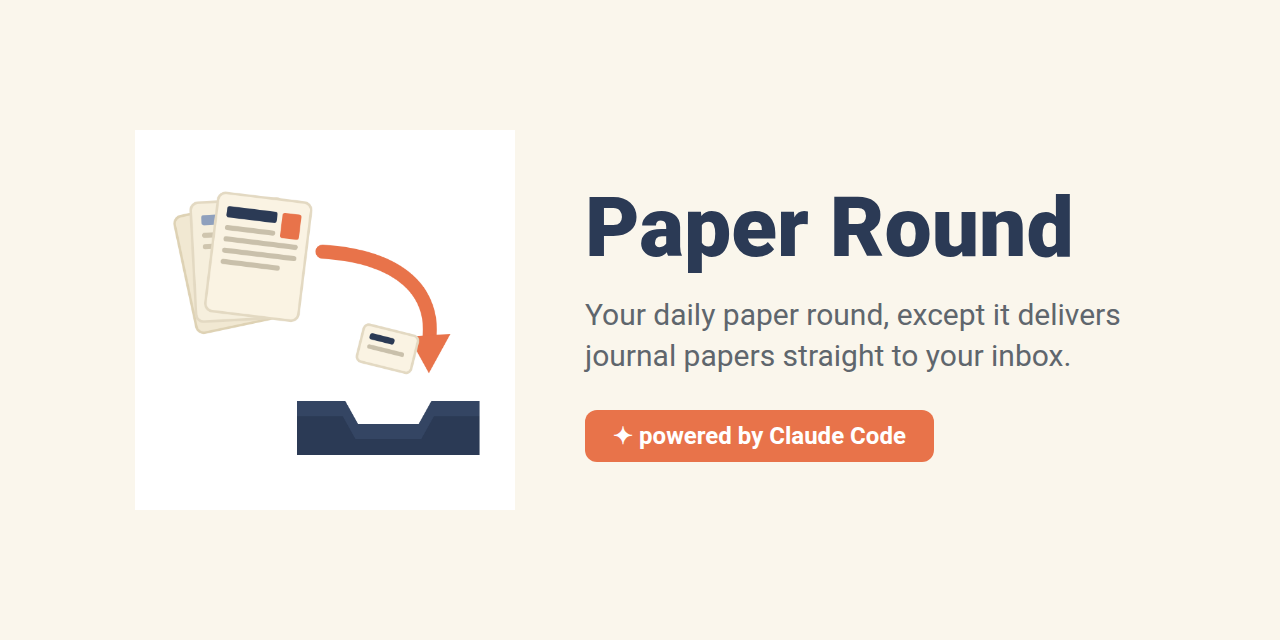
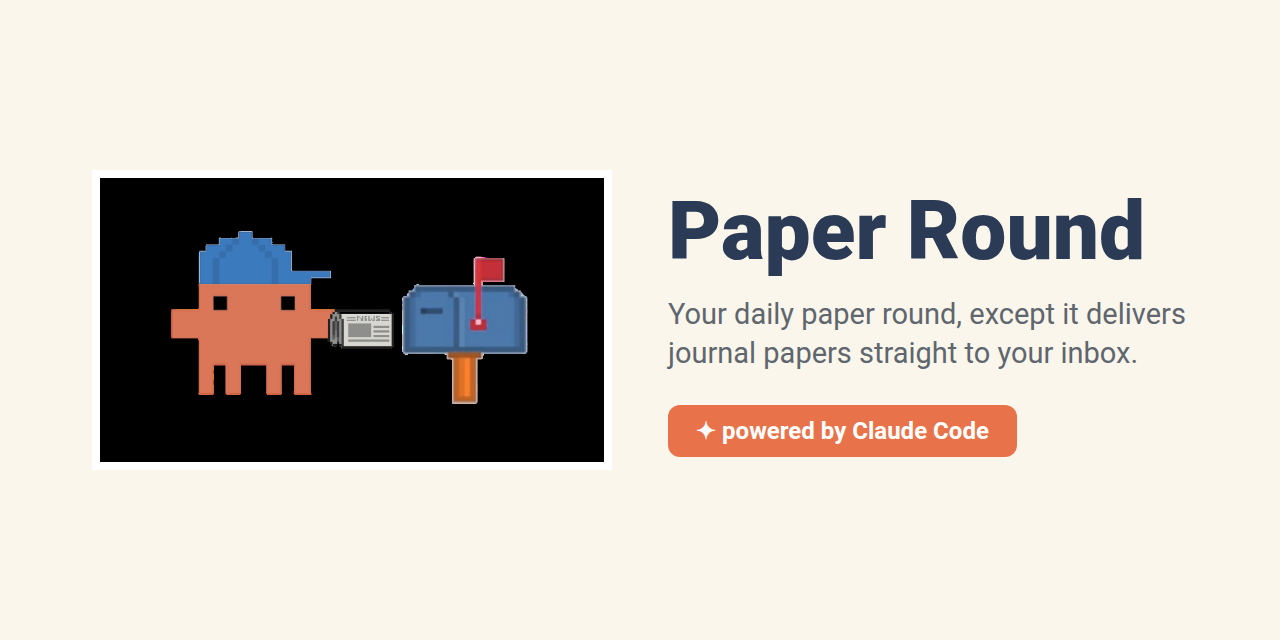
Clawd paperboy header, pipeline diagram in How it works, readable README pass with inline links

Changed region(s): [[0.0625, 0.2812, 0.9375, 0.7188]]

diff --git a/README.md b/README.md
@@ -1,5 +1,5 @@
 <div align="center">
-<img src="assets/paper-round-logo.png" alt="Paper Round logo" width="200">
+<img src="assets/clawd-delivery.png" alt="Clawd delivering the paper round" width="360">
 <h1>Paper Round</h1>
 <p>
 <a href="https://claude.com/product/claude-code"><img src="https://img.shields.io/badge/powered_by-Claude_Code-D97757?logo=claude&logoColor=white" alt="powered by Claude Code"></a>
@@ -11,22 +11,22 @@
 <p><em>Your daily paper round, except it delivers journal papers straight to your inbox.</em></p>
 </div>
 
-Every morning a scheduled Claude agent reads the feeds of the journals you
-follow, scores each new paper against your written research scope, emails
-you the relevant ones, and files them into Zotero with full metadata and
-open-access PDF links. Adapted from the workflow I built for my own PhD
-([Lainey Ward](https://github.com/LaineyLouiseWard)).
+Every morning, a scheduled Claude agent reads the feeds of the journals
+*you* follow, scores each new paper against *your* written research scope,
+**emails you the relevant ones**, and files them into **Zotero** with full
+metadata and open-access PDF links.
 
-No server, no GitHub Actions, no LLM API key: a claude.ai Pro/Max
-subscription is the engine. And unlike arXiv recommenders, it covers the
-peer-reviewed journals of your field across publishers.
+**No server. No GitHub Actions. No LLM API key.** A claude.ai Pro/Max
+subscription is the engine. Adapted from the workflow I built for my own
+PhD ([Lainey Ward](https://github.com/LaineyLouiseWard)).
 
 ![Example daily digest](assets/digest.png)
 
-## 🚀 Quick start
+## 🚀 Start here
 
-The fastest path: click **Use this template**, open your new repo in
-Claude Code, and paste this one prompt. Claude does the setup with you:
+**Fastest path (recommended):** click **[Use this template](https://github.com/LaineyLouiseWard/paper-round/generate)**,
+open your new repo in Claude Code, and paste this one prompt. *Claude
+does the setup with you, conversationally:*
 
 ```text
 Set up Paper Round (this repo) for me.
@@ -50,99 +50,98 @@ Set up Paper Round (this repo) for me.
    confirm each before moving on.
 ```
 
-Or do it by hand:
+<details>
+<summary><b>Prefer to set up by hand?</b> The same six steps, manually</summary>
 
 1. Click **Use this template** to create your own repo (private is fine)
 2. Edit `source_list.md` (your journals) and `config.yaml` (your settings)
-3. Draft your scope files: see [Writing your scope and rules](#%EF%B8%8F-writing-your-scope-and-rules)
-4. `cp .env.example .env` and fill in [the keys you use](#-keys)
+3. Draft your scope files, see [Writing your scope and rules](#%EF%B8%8F-writing-your-scope-and-rules)
+4. `cp .env.example .env` and add your keys: [resend.com](https://resend.com) (required), [zotero.org/settings/keys](https://www.zotero.org/settings/keys) and [openalex.org](https://openalex.org) (optional)
 5. `pip install -r requirements.txt && python screen.py --dry-run` (Python 3.10+)
 6. Set up the [cloud routine](#%EF%B8%8F-schedule-the-cloud-routine) and fire a test run
 
+</details>
+
 ## ⚙️ How it works
 
-![How Paper Round works](assets/how-it-works.png)
+![How Paper Round works](assets/pipeline.png)
 
-Deterministic Python does the data work: fetching feeds (with Crossref
-and OpenAlex fallbacks for publishers that block RSS), dedup by title and
-DOI, logging to a committed CSV, and filing into Zotero with Crossref
-metadata and Unpaywall PDF links. Claude does exactly one thing: judge
-each new paper against `research_scope.md` and `relevance_rules.md`.
-
-The routine prompt opens with integrity rules that pin every claimed
-paper to the fetched data. They exist because a screening agent whose
-fetch step fails will invent plausible papers rather than admit failure;
-the first live run of this pipeline produced seven fabricated papers with
-DOIs that resolved to 404 pages. Under the rules, "0 new papers" is an
-explicitly successful outcome and any failure is quoted verbatim in the
-digest. Spot-check a DOI from your digest now and then anyway.
+- **Python does the data work**: fetching feeds (with Crossref and
+  OpenAlex fallbacks for publishers that block RSS), dedup by title and
+  DOI, logging to a committed CSV, and filing into Zotero.
+- **Claude does exactly one thing**: judge each new paper against
+  `research_scope.md` and `relevance_rules.md`.
+- **Failures are loud, never invented.** The routine's integrity rules pin
+  every claimed paper to the fetched data, because a screening agent whose
+  fetch fails will otherwise *invent plausible papers* — the first live
+  run of this pipeline produced seven fabricated papers with DOIs that
+  resolved to 404 pages. Under the rules, "0 new papers" is a successful
+  outcome and any failure is quoted verbatim in the digest.
 
 ## ✍️ Writing your scope and rules
 
 `research_scope.md` and `relevance_rules.md` *are* the screening prompt.
-Don't write them from scratch. Open your copy in Claude Code, paste your
-thesis or proposal abstract, drop an export of your Zotero library beside
-it (File → Export Library → CSV), and ask it to draft both files plus
-suggested `source_list.md` entries from the journals that dominate your
-library. An abstract alone is too thin: the library shows your taste, the
-abstract shows where you're heading, and together they draft well.
-Correct what it gets wrong.
+Don't write them from scratch — give Claude Code your research taste:
 
-Treat the first two weeks of digests as calibration: every false positive
-becomes an exclusion, every paper you spot elsewhere that the monitor
-missed becomes a trigger. The exclusion list does most of the filtering
-work, so grow it freely.
+- **Paste your abstract** (thesis, proposal, or a recent paper), *and*
+- **Export your Zotero library** into the folder (File → Export Library →
+  CSV). The library shows your taste, the abstract shows where you're
+  heading; together they draft well. Claude can also suggest
+  `source_list.md` entries from the journals that dominate your library.
+
+Then treat the **first two weeks as calibration**: every false positive
+becomes an exclusion, every missed paper becomes a trigger. The exclusion
+list does most of the filtering work, so grow it freely.
 
 ## ☁️ Schedule the cloud routine
 
 Each morning a Claude Code cloud agent clones this repo, runs the
-pipeline, and emails you; a push notification states the outcome either
-way, so a failed run announces itself. Runs draw on your normal plan
-usage, a few minutes of the cheapest model per day.
+pipeline, and emails you. A push notification states the outcome either
+way, so *a failed run announces itself*. Runs draw on your normal plan
+usage — a few minutes of the cheapest model per day.
 
-Each setup step guards against a real failure mode:
+Each step below guards against a real failure mode:
 
-1. **GitHub access.** The cloud agent clones via the Claude GitHub App,
-   not your local credentials. Install it via github.com → Settings →
-   Applications → Installed GitHub Apps → Claude → Configure, and grant
-   access to this repo. Without access to a private repo, every run dies
-   at init and the routine disables itself.
-2. **Network access.** Cloud environments block unknown domains by
-   default. In claude.ai/code open your environment's settings → Network
-   access → **Custom**, keep the default package-manager list, and add
-   your feed domains plus `api.crossref.org`, `api.unpaywall.org`,
-   `api.zotero.org`, `api.resend.com`, `api.openalex.org`,
-   `export.arxiv.org`, `arxiv.org`, and `doi.org`.
+1. **Grant GitHub access.** The cloud agent clones via the Claude GitHub
+   App, not your local credentials. Configure it at
+   [github.com/settings/installations](https://github.com/settings/installations)
+   → **Claude** → grant access to this repo.
+2. **Open network access.** Cloud environments block unknown domains by
+   default. In [claude.ai/code](https://claude.ai/code), open your
+   environment's settings → Network access → **Custom**, keep the default
+   package list, and add your feed domains plus `api.crossref.org`,
+   `api.unpaywall.org`, `api.zotero.org`, `api.resend.com`,
+   `api.openalex.org`, `export.arxiv.org`, `arxiv.org`, `doi.org`.
 3. **Create the routine.** Fill in the placeholders in
-   `routine_prompt.md`, then either ask Claude Code (`/schedule`, "run
-   this prompt daily at 6am against my repo") or use
-   claude.ai/code/routines. Attach your repo, pick the cheapest model
-   tier, set the cron (times are UTC).
+   `routine_prompt.md`, then ask Claude Code (`/schedule`, *"run this
+   prompt daily at 6am against my repo"*) or use
+   [claude.ai/code/routines](https://claude.ai/code/routines). Cheapest
+   model tier; cron times are UTC.
 4. **Fire a manual test run** and read the push notification: it states
    `Digest EMAILED …`, `Resend FAILED …`, or `Email FAILED …` with the
-   digest preserved. Check the commit, your Zotero inbox, and the email
-   before trusting it.
+   digest preserved. *Check the commit, your Zotero inbox, and the email
+   before trusting it.*
 
 ## 🔑 Keys
 
 All optional except Resend. They go in `.env` locally and in the routine
-prompt (or environment variables) in the cloud; never commit them.
+prompt (or environment variables) in the cloud — **never commit them**.
 
 | Key | Where to get it | Needed for |
 | --- | --- | --- |
-| `RESEND_API_KEY` | free account at [resend.com](https://resend.com) | the emailed digest. Without a verified domain, send from `[email redacted]`, which only delivers to your own Resend account email |
-| `ZOTERO_API_KEY` | [zotero.org/settings/keys](https://www.zotero.org/settings/keys), write access | filing papers into your library. Leave empty to skip Zotero and curate from the email |
+| `RESEND_API_KEY` | free account at [resend.com](https://resend.com) | **the emailed digest.** Without a verified domain, send from `[email redacted]` (delivers only to your own Resend account email) |
+| `ZOTERO_API_KEY` | [zotero.org/settings/keys](https://www.zotero.org/settings/keys), write access | filing papers into your library. *Leave empty to skip Zotero and curate from the email* |
 | `OPENALEX_API_KEY` | free from [openalex.org](https://openalex.org) | only if `config.yaml` lists `openalex_sources` (journals with no workable RSS) |
-| `ANTHROPIC_API_KEY` | [console.anthropic.com](https://console.anthropic.com) | local screening runs only; the cloud routine screens natively |
+| `ANTHROPIC_API_KEY` | [console.anthropic.com](https://console.anthropic.com) | local screening runs only; *the cloud routine screens natively* |
 
 ## 📁 Project structure
 
 Everything sits at the repo root: each file is either the pipeline or a
-file you edit, and `screen.py` finds its siblings by location.
+file you edit.
 
 | File | Purpose |
 | ---- | ------- |
-| `screen.py` | Pipeline: fetch, dedup, screen, log, Zotero. No editing needed |
+| `screen.py` | Pipeline: fetch, dedup, screen, log, Zotero. **No editing needed** |
 | `config.yaml` | All your settings: email, Zotero library, sources, model |
 | `.env.example` | Template for `.env`, where keys live (gitignored) |
 | `source_list.md` | Your feeds, with working URL patterns per publisher |
@@ -154,15 +153,15 @@ file you edit, and `screen.py` finds its siblings by location.
 
 ## 🛠️ Troubleshooting
 
-If the four setup steps above are done, none of these should fire. When
-one does anyway, the fix is a click away:
+If the four setup steps are done, none of these should fire. When one
+does anyway:
 
 <details>
-<summary>Click to expand the failure table</summary>
+<summary><b>Expand the failure table</b></summary>
 
 | Symptom | Cause | Fix |
 | --- | --- | --- |
-| Routine disabled itself, "init failed" | Claude GitHub App can't clone the (private) repo | Grant repo access: github.com → Settings → Applications → Claude → Configure |
+| Routine disabled itself, "init failed" | Claude GitHub App can't clone the (private) repo | Grant repo access at [github.com/settings/installations](https://github.com/settings/installations) |
 | Run reports network/proxy errors | Environment allowlist blocks feeds/APIs | Environment settings → Network access → Custom → add the domains from step 2 |
 | Digest never arrives | Resend missing from the allowlist, unverified from-address, or the free tier's own-address restriction | The push notification states the outcome verbatim; check `api.resend.com` is allowlisted and the from/to pairing matches your Resend tier |
 | Expecting email from a Gmail connector | Google's Gmail connector has no send tool | It can only create drafts; that's why this uses Resend |
@@ -174,18 +173,18 @@ one does anyway, the fix is a click away:
 ## ❓ FAQ
 
 **What does it cost to run?** It draws on your Claude Pro/Max plan's
-included usage: a few minutes of the cheapest model per day, no separate
-bill, no per-token API charges.
+included usage: a few minutes of the cheapest model per day. *No separate
+bill, no per-token API charges.*
 
 **Will it hallucinate papers?** That's what the integrity rules are for:
 every paper must appear verbatim in the fetched feed data, and failures
 get reported instead of papered over. Spot-check a DOI occasionally
-anyway; trust, but verify.
+anyway — trust, but verify.
 
 **Does it get me past paywalls?** No. Cards link the paper's page, plus
-an open-access PDF whenever Unpaywall knows one.
+an open-access PDF whenever [Unpaywall](https://unpaywall.org/) knows one.
 
-**Can I use it without Zotero?** Yes. Leave `ZOTERO_API_KEY` empty and
+**Can I use it without Zotero?** Yes — leave `ZOTERO_API_KEY` empty and
 curate from the email instead.
 
 **Can I run it without the cloud routine?** Yes: `python screen.py`
@@ -194,7 +193,7 @@ cloud routine is just the zero-infrastructure way.
 
 ## 🤝 Contributing
 
-Issues and pull requests welcome, especially working feed patterns for
+Issues and pull requests welcome — especially working feed patterns for
 more publishers and example scope files from other fields.
 
 ## ❤️ Acknowledgements